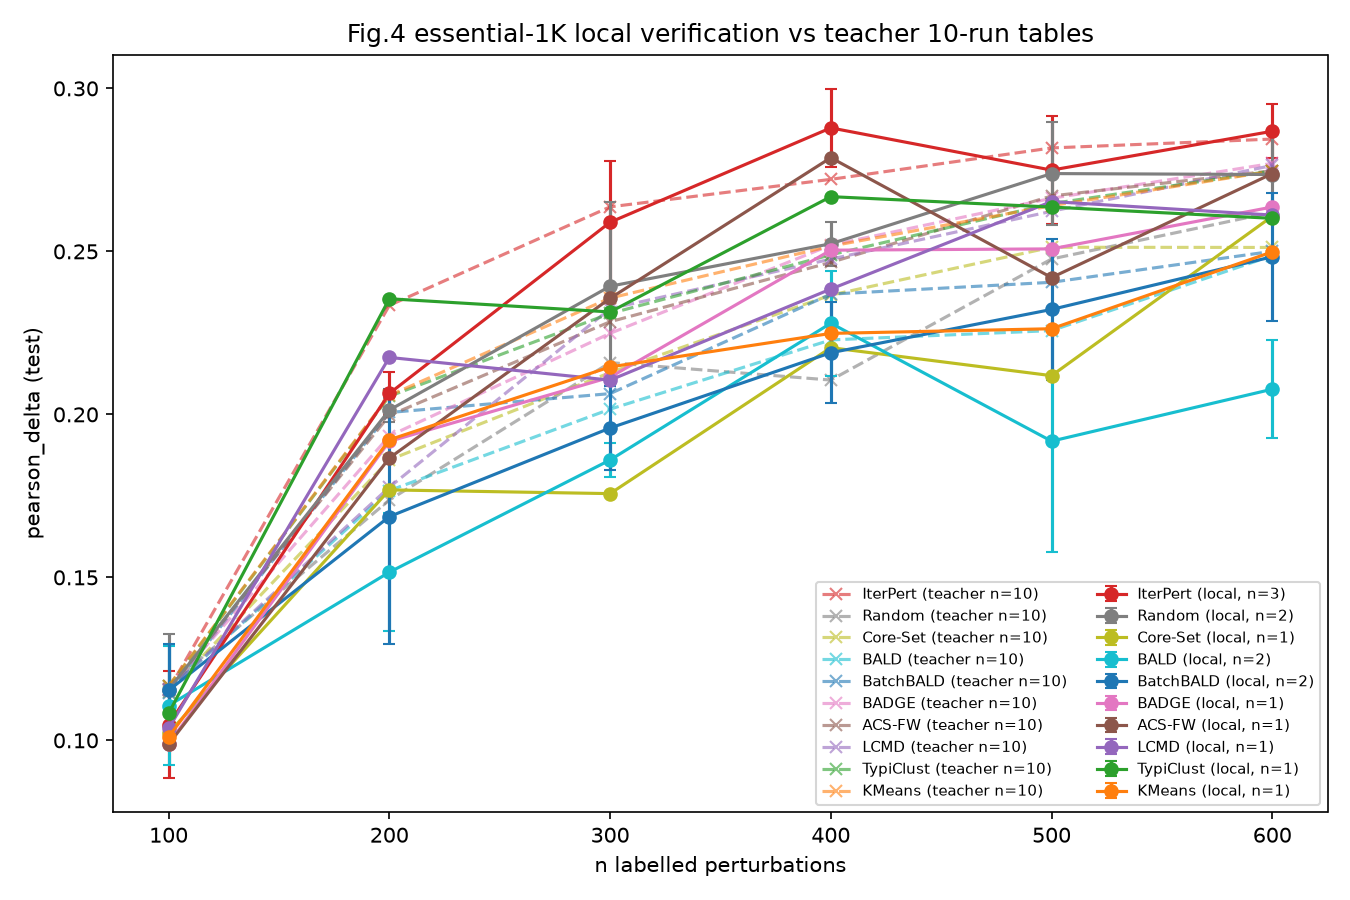
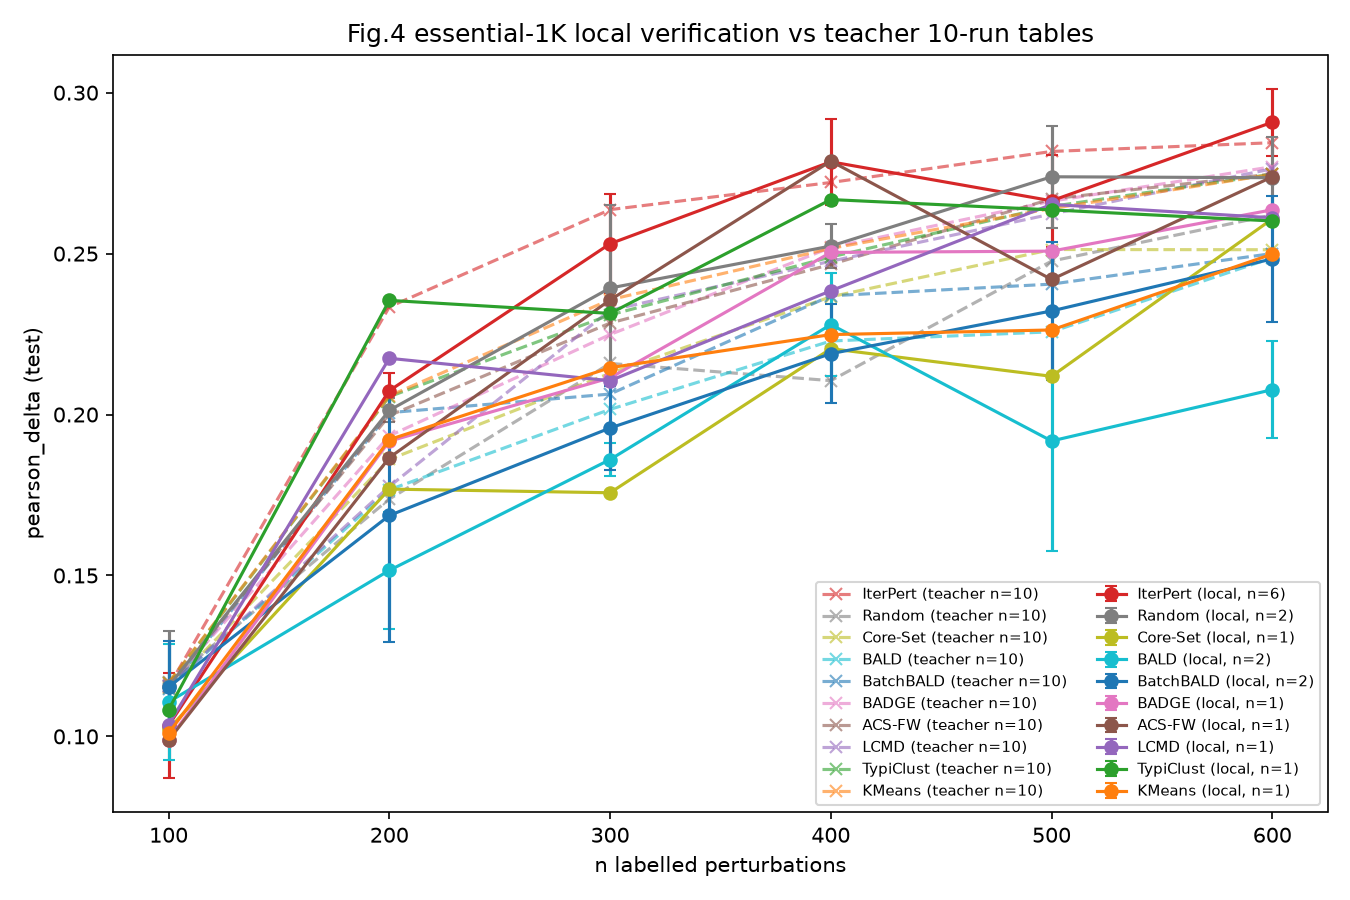
results: complete fig4c 8-prior comparison (6/8 within 1.1σ; pops/biogpt flagged, verif2 running)

diff --git a/results/LOCAL_VERIFICATION.md b/results/LOCAL_VERIFICATION.md
@@ -38,12 +38,12 @@
 | Core-Set | 400 | 0.2366 ± 0.0290 (10) | 0.2205 ± nan (1) | -0.56 |
 | Core-Set | 500 | 0.2513 ± 0.0249 (10) | 0.2119 ± nan (1) | -1.58 |
 | Core-Set | 600 | 0.2512 ± 0.0257 (10) | 0.2608 ± nan (1) | +0.37 |
-| IterPert | 100 | 0.1155 ± 0.0127 (10) | 0.1048 ± 0.0163 (3) | -0.84 |
-| IterPert | 200 | 0.2334 ± 0.0208 (10) | 0.2064 ± 0.0066 (3) | -1.30 |
-| IterPert | 300 | 0.2637 ± 0.0130 (10) | 0.2589 ± 0.0189 (3) | -0.36 |
-| IterPert | 400 | 0.2721 ± 0.0191 (10) | 0.2879 ± 0.0119 (3) | +0.83 |
-| IterPert | 500 | 0.2817 ± 0.0154 (10) | 0.2749 ± 0.0165 (3) | -0.44 |
-| IterPert | 600 | 0.2845 ± 0.0121 (10) | 0.2869 ± 0.0083 (3) | +0.20 |
+| IterPert | 100 | 0.1155 ± 0.0127 (10) | 0.1034 ± 0.0162 (6) | -0.95 |
+| IterPert | 200 | 0.2334 ± 0.0208 (10) | 0.2074 ± 0.0054 (6) | -1.25 |
+| IterPert | 300 | 0.2637 ± 0.0130 (10) | 0.2531 ± 0.0153 (6) | -0.81 |
+| IterPert | 400 | 0.2721 ± 0.0191 (10) | 0.2785 ± 0.0133 (6) | +0.34 |
+| IterPert | 500 | 0.2817 ± 0.0154 (10) | 0.2664 ± 0.0142 (6) | -1.00 |
+| IterPert | 600 | 0.2845 ± 0.0121 (10) | 0.2908 ± 0.0103 (6) | +0.53 |
 | KMeans | 100 | 0.1167 ± 0.0129 (10) | 0.1010 ± nan (1) | -1.22 |
 | KMeans | 200 | 0.2058 ± 0.0173 (10) | 0.1922 ± nan (1) | -0.78 |
 | KMeans | 300 | 0.2357 ± 0.0254 (10) | 0.2146 ± nan (1) | -0.83 |
@@ -68,6 +68,59 @@
 | TypiClust | 400 | 0.2490 ± 0.0127 (10) | 0.2668 ± nan (1) | +1.41 |
 | TypiClust | 500 | 0.2647 ± 0.0139 (10) | 0.2636 ± nan (1) | -0.08 |
 | TypiClust | 600 | 0.2747 ± 0.0126 (10) | 0.2601 ± nan (1) | -1.15 |
+
+## fig4c 单先验消融（本机 vs 老师 5-run 表）
+
+| prior | n_labeled | 老师 mean ± std (n) | 本机 mean (n) | dev |
+|---|---|---|---|---|
+| biogpt_kernel | 100 | 0.1150 ± 0.0122 (5) | 0.1078 (1) | -0.59 |
+| biogpt_kernel | 200 | 0.1847 ± 0.0138 (5) | 0.1783 (1) | -0.46 |
+| biogpt_kernel | 300 | 0.2228 ± 0.0207 (5) | 0.2018 (1) | -1.02 |
+| biogpt_kernel | 400 | 0.2376 ± 0.0081 (5) | 0.1912 (1) | -5.72 |
+| biogpt_kernel | 500 | 0.2411 ± 0.0208 (5) | 0.2362 (1) | -0.23 |
+| biogpt_kernel | 600 | 0.2531 ± 0.0200 (5) | 0.2075 (1) | -2.28 |
+| esm_kernel | 100 | 0.1157 ± 0.0099 (5) | 0.0988 (1) | -1.71 |
+| esm_kernel | 200 | 0.1775 ± 0.0157 (5) | 0.1604 (1) | -1.08 |
+| esm_kernel | 300 | 0.1922 ± 0.0281 (5) | 0.1332 (1) | -2.10 |
+| esm_kernel | 400 | 0.2022 ± 0.0155 (5) | 0.1683 (1) | -2.19 |
+| esm_kernel | 500 | 0.2156 ± 0.0207 (5) | 0.1984 (1) | -0.83 |
+| esm_kernel | 600 | 0.2510 ± 0.0164 (5) | 0.2519 (1) | +0.05 |
+| node2vec_kernel | 100 | 0.1177 ± 0.0088 (5) | 0.1062 (1) | -1.30 |
+| node2vec_kernel | 200 | 0.1288 ± 0.0218 (5) | 0.0945 (1) | -1.57 |
+| node2vec_kernel | 300 | 0.1200 ± 0.0120 (5) | 0.0617 (1) | -4.84 |
+| node2vec_kernel | 400 | 0.1675 ± 0.0175 (5) | 0.1686 (1) | +0.06 |
+| node2vec_kernel | 500 | 0.1855 ± 0.0206 (5) | 0.1642 (1) | -1.03 |
+| node2vec_kernel | 600 | 0.1991 ± 0.0258 (5) | 0.1890 (1) | -0.39 |
+| ops_A549_kernel | 100 | 0.1168 ± 0.0075 (5) | 0.0999 (1) | -2.27 |
+| ops_A549_kernel | 200 | 0.2070 ± 0.0249 (5) | 0.2224 (1) | +0.62 |
+| ops_A549_kernel | 300 | 0.2363 ± 0.0183 (5) | 0.2506 (1) | +0.78 |
+| ops_A549_kernel | 400 | 0.2562 ± 0.0232 (5) | 0.2547 (1) | -0.06 |
+| ops_A549_kernel | 500 | 0.2767 ± 0.0056 (5) | 0.2751 (1) | -0.29 |
+| ops_A549_kernel | 600 | 0.2782 ± 0.0140 (5) | 0.2934 (1) | +1.09 |
+| ops_HeLa_DMEM_kernel | 100 | 0.1160 ± 0.0101 (5) | 0.0984 (1) | -1.74 |
+| ops_HeLa_DMEM_kernel | 200 | 0.2327 ± 0.0206 (5) | 0.2154 (1) | -0.84 |
+| ops_HeLa_DMEM_kernel | 300 | 0.2448 ± 0.0185 (5) | 0.2698 (1) | +1.35 |
+| ops_HeLa_DMEM_kernel | 400 | 0.2596 ± 0.0205 (5) | 0.2876 (1) | +1.37 |
+| ops_HeLa_DMEM_kernel | 500 | 0.2907 ± 0.0112 (5) | 0.2987 (1) | +0.72 |
+| ops_HeLa_DMEM_kernel | 600 | 0.2989 ± 0.0064 (5) | 0.2925 (1) | -1.00 |
+| ops_HeLa_HPLM_kernel | 100 | 0.1125 ± 0.0118 (5) | 0.1041 (1) | -0.71 |
+| ops_HeLa_HPLM_kernel | 200 | 0.2063 ± 0.0367 (5) | 0.2067 (1) | +0.01 |
+| ops_HeLa_HPLM_kernel | 300 | 0.2464 ± 0.0213 (5) | 0.2348 (1) | -0.54 |
+| ops_HeLa_HPLM_kernel | 400 | 0.2429 ± 0.0177 (5) | 0.2676 (1) | +1.39 |
+| ops_HeLa_HPLM_kernel | 500 | 0.2850 ± 0.0086 (5) | 0.2754 (1) | -1.11 |
+| ops_HeLa_HPLM_kernel | 600 | 0.2952 ± 0.0118 (5) | 0.2930 (1) | -0.19 |
+| pops_kernel | 100 | 0.1168 ± 0.0106 (5) | 0.1003 (1) | -1.57 |
+| pops_kernel | 200 | 0.2003 ± 0.0264 (5) | 0.1948 (1) | -0.21 |
+| pops_kernel | 300 | 0.2135 ± 0.0178 (5) | 0.2425 (1) | +1.63 |
+| pops_kernel | 400 | 0.2448 ± 0.0099 (5) | 0.2588 (1) | +1.41 |
+| pops_kernel | 500 | 0.2603 ± 0.0059 (5) | 0.2262 (1) | -5.73 |
+| pops_kernel | 600 | 0.2669 ± 0.0033 (5) | 0.2851 (1) | +5.45 |
+| rpe1_kernel | 100 | 0.1165 ± 0.0063 (5) | 0.0944 (1) | -3.49 |
+| rpe1_kernel | 200 | 0.2440 ± 0.0189 (5) | 0.2070 (1) | -1.95 |
+| rpe1_kernel | 300 | 0.2764 ± 0.0142 (5) | 0.2751 (1) | -0.10 |
+| rpe1_kernel | 400 | 0.2704 ± 0.0139 (5) | 0.2870 (1) | +1.20 |
+| rpe1_kernel | 500 | 0.2871 ± 0.0093 (5) | 0.2516 (1) | -3.82 |
+| rpe1_kernel | 600 | 0.2904 ± 0.0091 (6) | 0.2965 (1) | +0.67 |
 
 ## 读法
 
